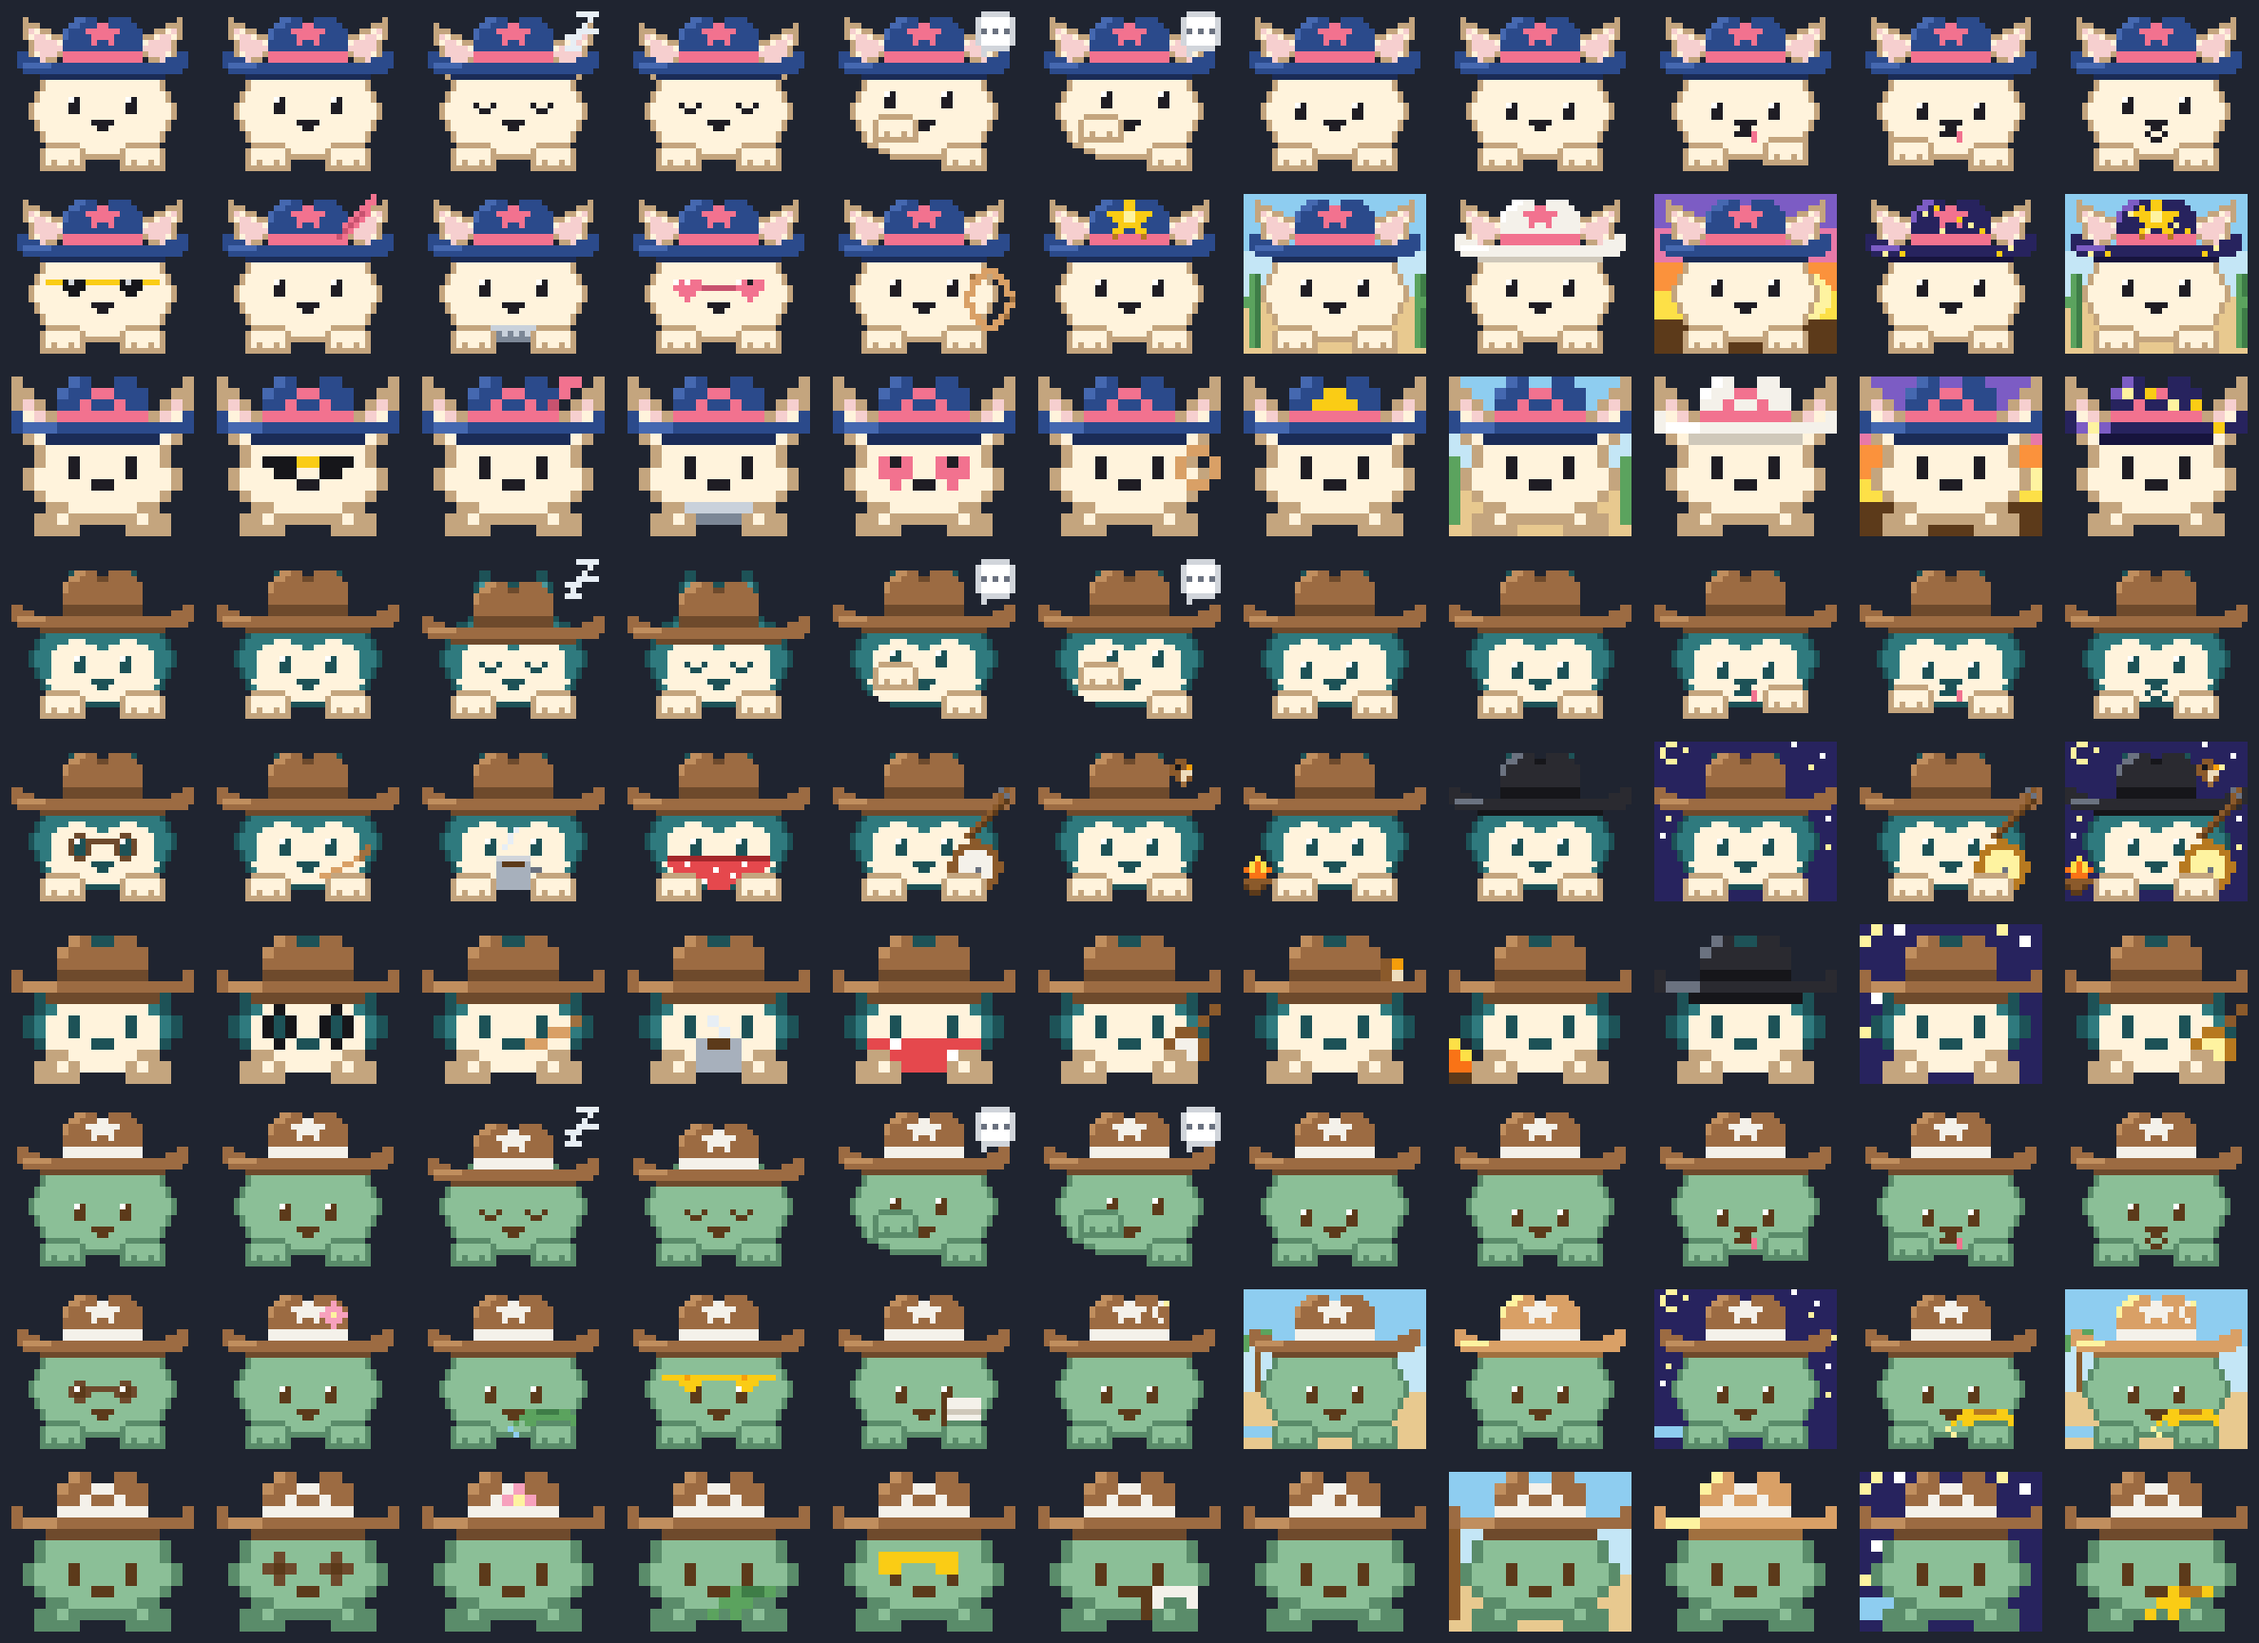
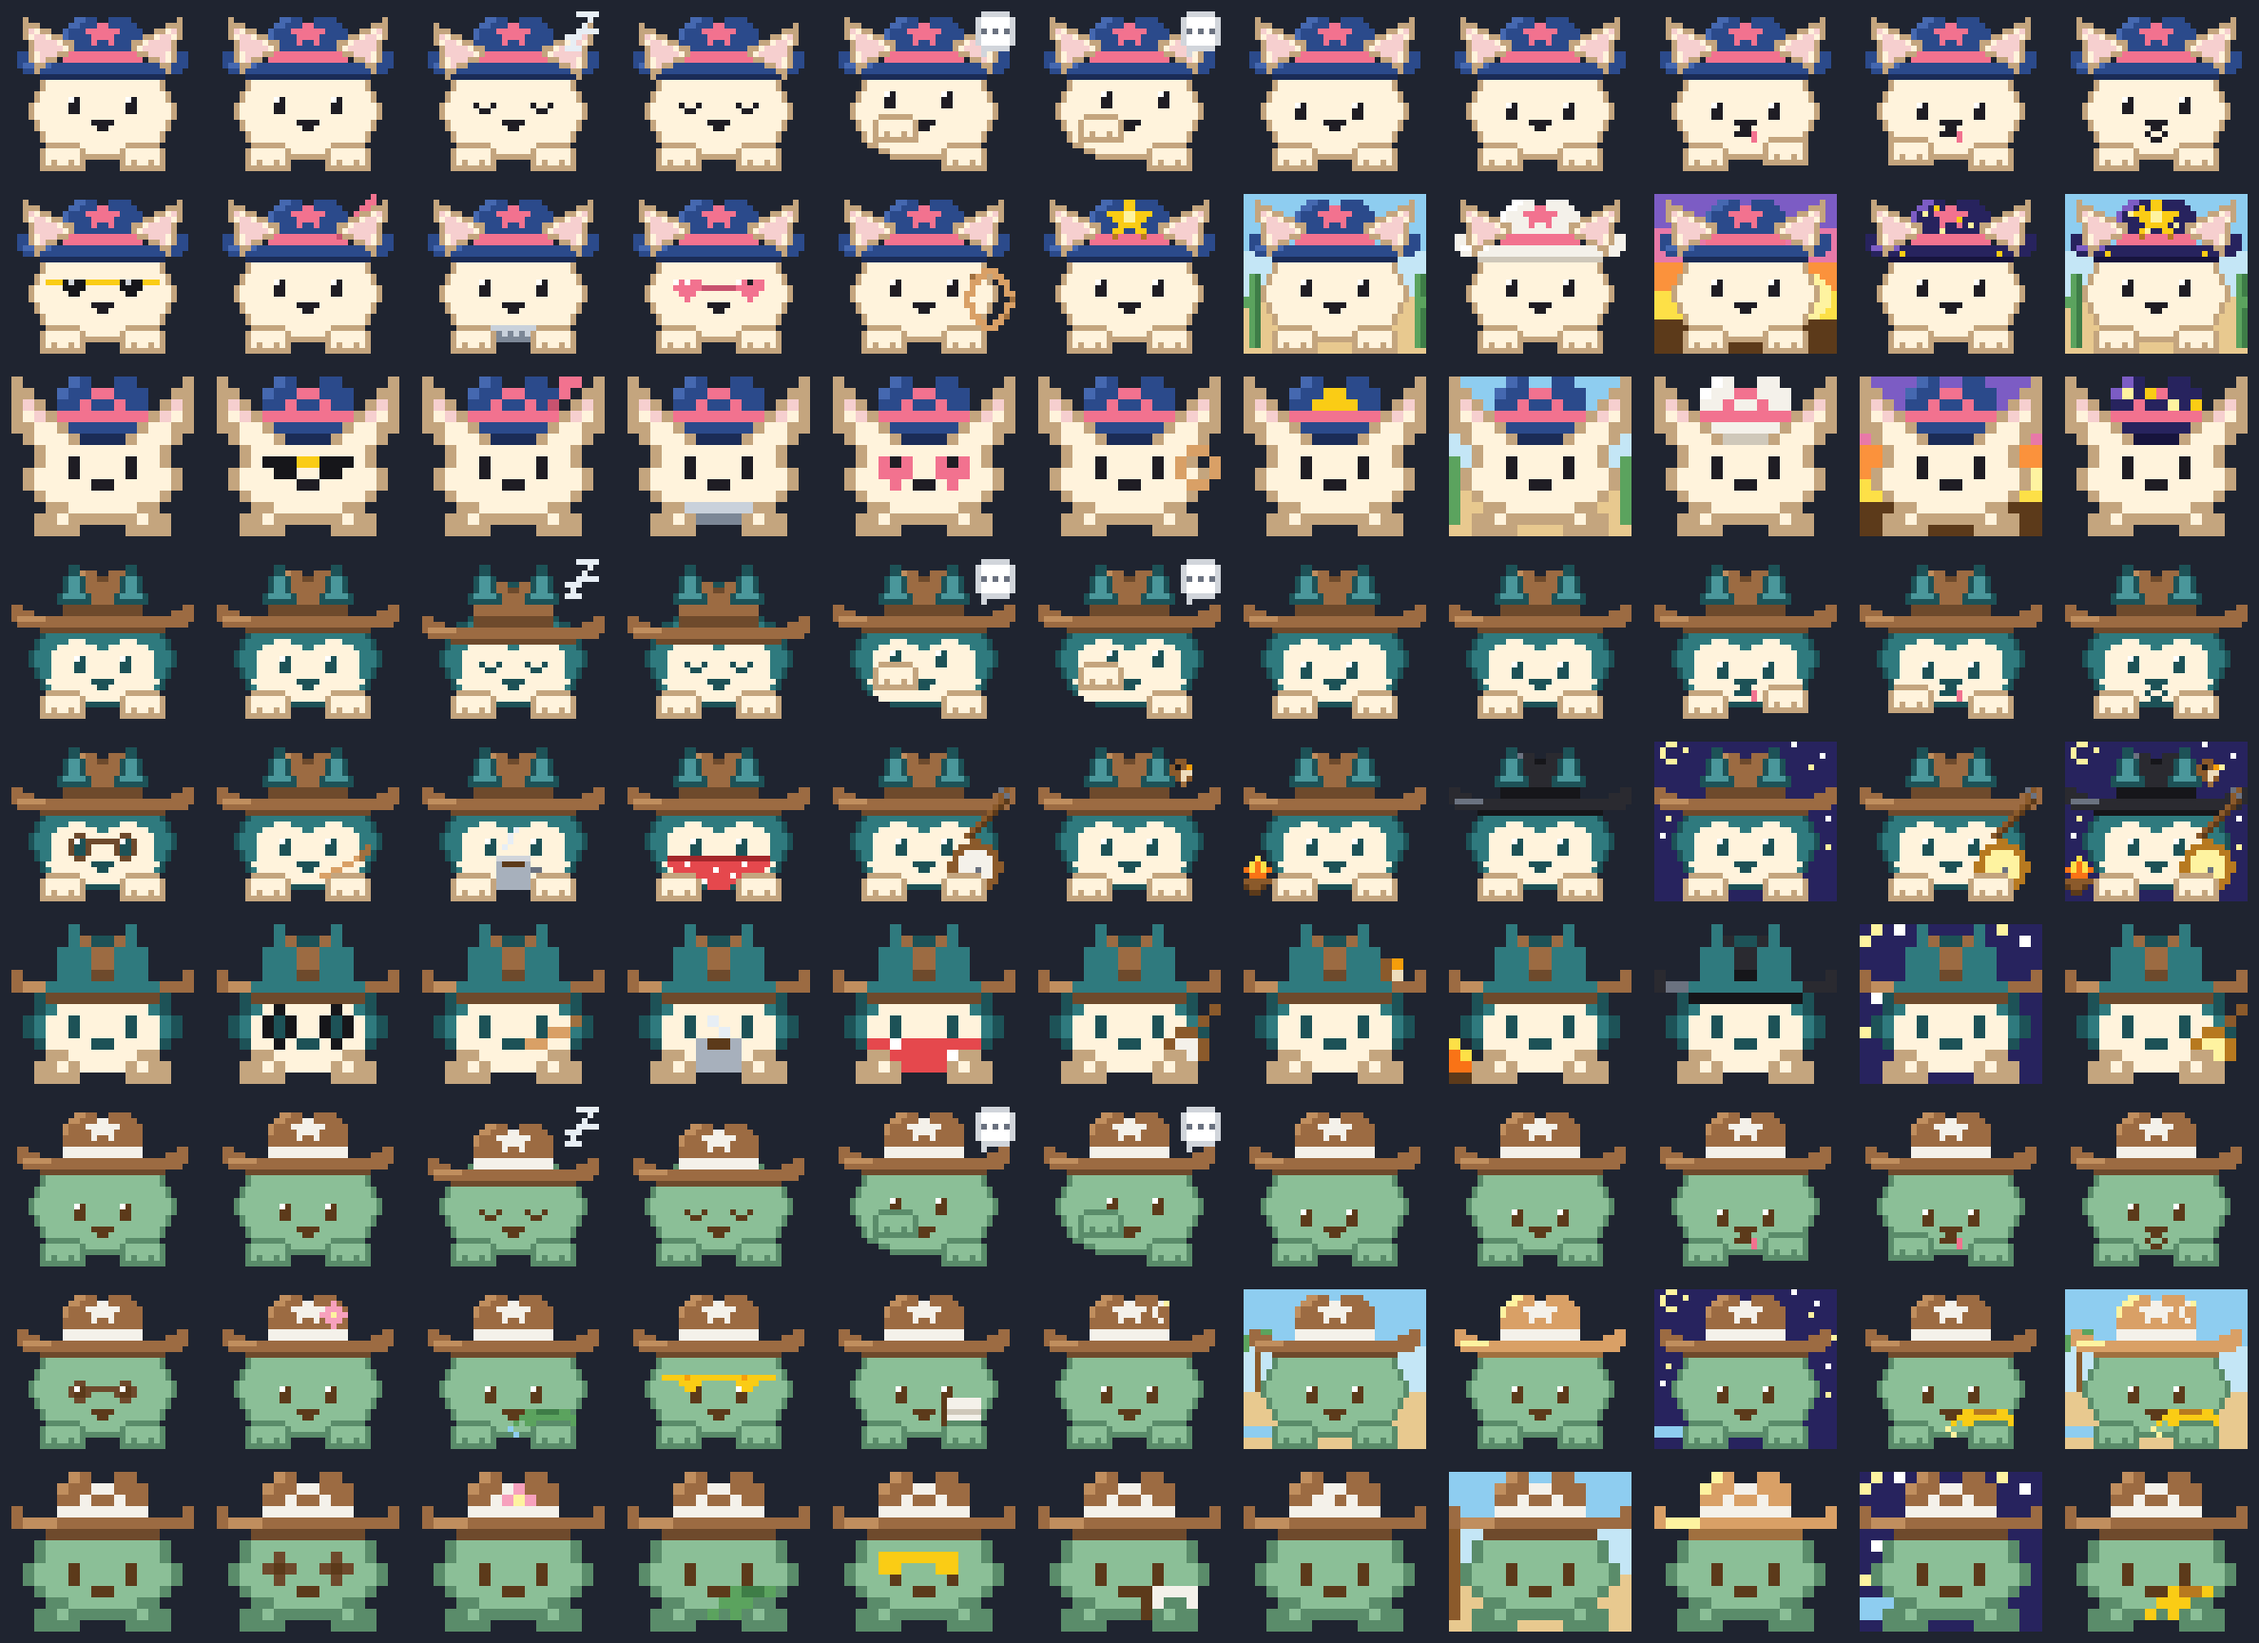
fix: CARO ears now poke through the hat crown
Draw ears after the hat in sprite.ts so triangular cat ears render
on top of the crown instead of being hidden beneath it. Widen CARO's
ear polygons slightly (32px and 16px) for a cleaner look at both
sizes. Regenerate art.ts and preview images.

diff --git a/mod/hooks/characters/art.ts b/mod/hooks/characters/art.ts
@@ -345,13 +345,13 @@ export const BODY = {
       height: 28,
       ears: [
         "................................",
-        "................................",
         "..........tt........tt..........",
         "..........tt........tt..........",
         ".........tQQt......tQQt.........",
         ".........tQQt......tQQt.........",
-        ".........tttt......tttt.........",
-        "................................",
+        ".........tQQt......tQQt.........",
+        "........tQQQQt....tQQQQt........",
+        "........tttttt....tttttt........",
         "................................",
         "................................",
         "................................",
@@ -500,12 +500,12 @@ export const BODY = {
       width: 16,
       height: 14,
       ears: [
-        "................",
         ".....T....T.....",
         ".....T....T.....",
         "....TTT..TTT....",
         "....TTT..TTT....",
-        "................",
+        "....TTT..TTT....",
+        "...TTTTTTTTTT...",
         "................",
         "................",
         "................",

diff --git a/mod/hooks/sprite.ts b/mod/hooks/sprite.ts
@@ -254,7 +254,6 @@ export function frame(pose: Pose): string[] {
 
   // The pal on its own grid first, so the whole of it can hop and sway.
   const fig = blank(body.width, body.height)
-  stamp(fig, 0, -(look.ears ?? 0), body.ears)
   stamp(fig, 0, 0, body.head)
   if (look.blush === true) for (const [x, y] of face.blush.at) stamp(fig, x, y, face.blush.art)
   const eye = face.eyes[look.eyes ?? 'open']
@@ -279,6 +278,8 @@ export function frame(pose: Pose): string[] {
   const recolor = Object.assign({}, ...on('hat').map(item => item.recolor ?? {})) as Record<string, string>
   stamp(fig, hatX, hatY, body.hat, recolor)
   for (const item of on('hat')) stamp(fig, hatX, hatY, frameOf(item, tick))
+  // Ears after hat so cat ears (CARO) poke visibly through the crown.
+  stamp(fig, 0, -(look.ears ?? 0), body.ears)
 
   const paws = look.paws ?? 'rest'
   if (look.hideHand !== true && look.treat === undefined && paws === 'rest') for (const item of on('hand')) stamp(fig, 0, 0, frameOf(item, tick))

diff --git a/tools/draw_art.py b/tools/draw_art.py
@@ -161,9 +161,9 @@ def locki32():
 def cappl32():
     W, H = 32, 28
     ears = Canvas(W, H)
-    ears.polygon([(8.5, 7), (11, 0.5), (13.5, 7)], "T")
+    ears.polygon([(7.5, 8), (11, 0), (14.5, 8)], "T")
     ears.outline("t")
-    ears.polygon([(9.5, 6), (11, 2.5), (12.5, 6)], "Q")
+    ears.polygon([(9, 7), (11, 2), (13, 7)], "Q")
     ears.mirror()
 
     head = Canvas(W, H)
@@ -228,7 +228,7 @@ def locki16():
 def cappl16():
     W, H = 16, 14
     ears = Canvas(W, H)
-    ears.polygon([(3.5, 5), (5.5, 0.5), (7.5, 5)], "T")
+    ears.polygon([(3, 6), (5.5, 0), (8, 6)], "T")
     ears.mirror()
     head = Canvas(W, H)
     head.ellipse(8, 8.8, 6.6, 4.8, "T", y_max=12)
